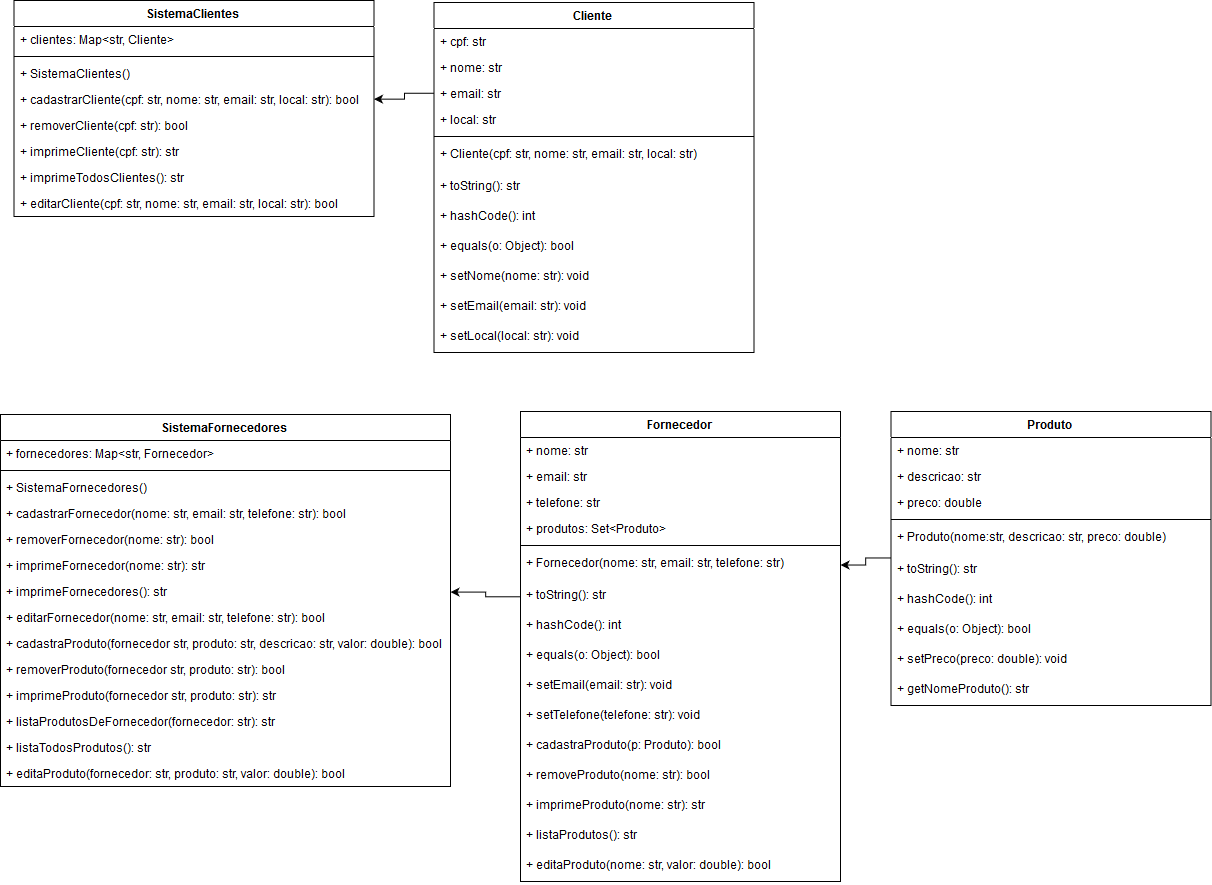
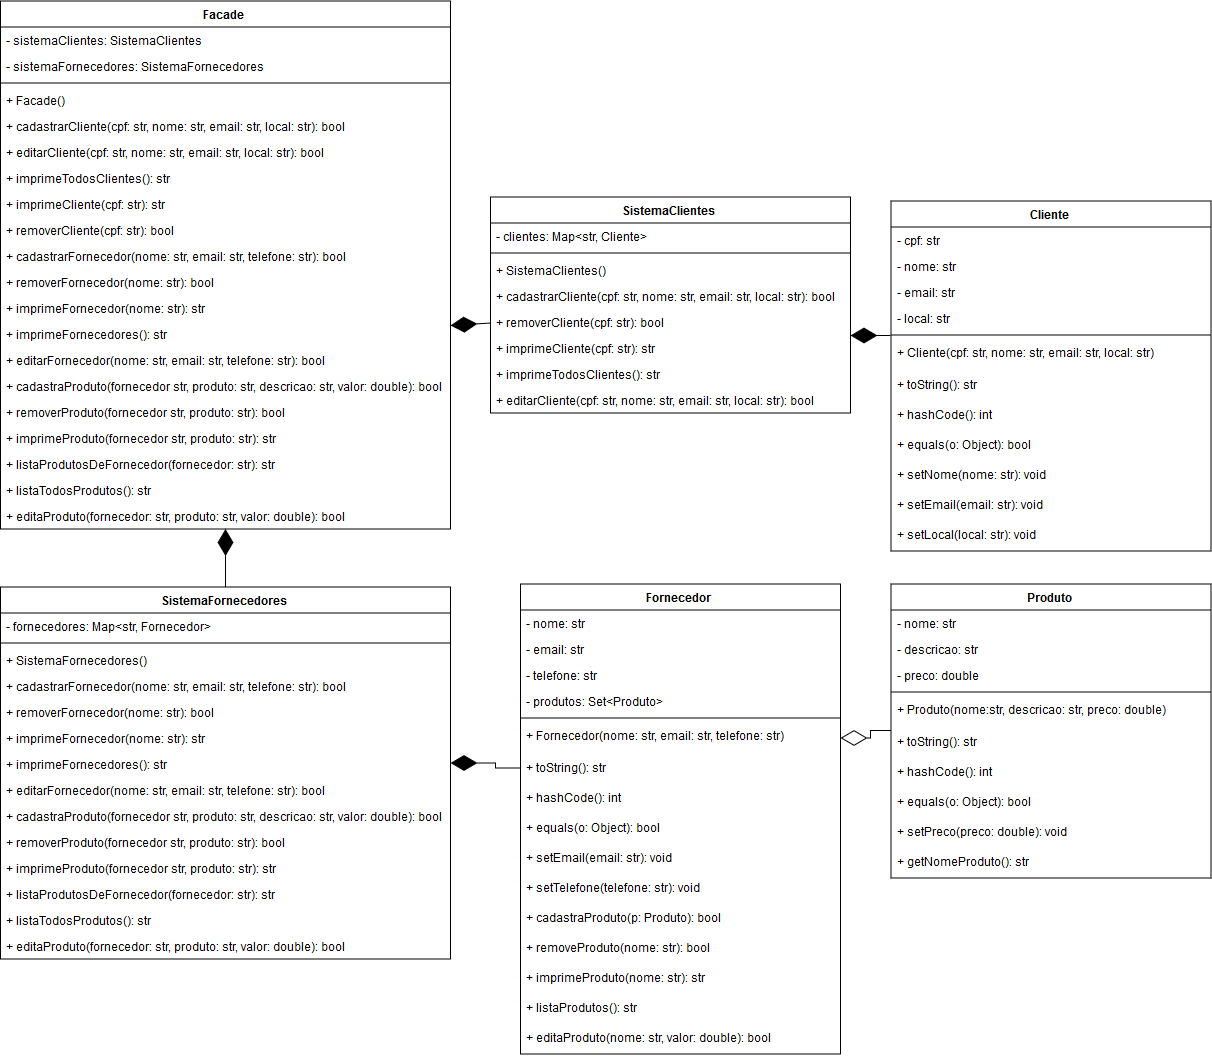
Adicionando o Facade e update no diagrama de classes

diff --git a/P5/Lab5JoaoFelipe/src/lab5/Facade.java b/P5/Lab5JoaoFelipe/src/lab5/Facade.java
@@ -2,4 +2,75 @@ package lab5;
 
 public class Facade {
 	
+	private SistemaClientes sistemaClientes;
+	private SistemaFornecedores sistemaFornecedores;
+	
+	public Facade() {
+		this.sistemaClientes = new SistemaClientes();
+		this.sistemaFornecedores = new SistemaFornecedores();
+	}
+	
+	public boolean cadastrarCliente(String cpf, String nome, String email, String local) {
+		return sistemaClientes.cadastrarCliente(cpf, nome, email, local);
+	}
+	
+	public String imprimeCliente(String cpf) {
+		return sistemaClientes.imprimeCliente(cpf);
+	}
+	
+	public String imprimeTodosClientes() {
+		return sistemaClientes.imprimeTodosClientes();
+	}
+	
+	public boolean removerCliente(String cpf) {
+		return sistemaClientes.removerCliente(cpf);
+	}
+	
+	public boolean editarCliente(String cpf, String nome, String email, String local) {
+		return sistemaClientes.editarCliente(cpf, nome, email, local);
+	}
+	
+	public boolean cadastrarFornecedor(String nome, String email, String telefone) {
+		return sistemaFornecedores.cadastrarFornecedor(nome, email, telefone);
+	}
+	
+	public String imprimeFornecedor(String nome) {
+		return sistemaFornecedores.imprimeFornecedor(nome);
+	}
+	
+	public String imprimeFornecedores() {
+		return sistemaFornecedores.imprimeFornecedores();
+	}
+	
+	public boolean removerFornecedor(String nome) {
+		return sistemaFornecedores.removerFornecedor(nome);
+	}
+	
+	public boolean editarFornecedor(String nome, String email, String telefone) {
+		return sistemaFornecedores.editarFornecedor(nome, email, telefone);
+	}
+	
+	public boolean cadastraProduto(String fornecedor, String produto, String descricao, double valor) {
+		return sistemaFornecedores.cadastraProduto(fornecedor, produto, descricao, valor);
+	}
+	
+	public boolean removerProduto(String fornecedor, String produto) {
+		return sistemaFornecedores.removerProduto(fornecedor, produto);
+	}
+	
+	public String imprimeProduto(String fornecedor, String produto) {
+		return sistemaFornecedores.imprimeProduto(fornecedor, produto);
+	}
+	
+	public String listaProdutosDeFornecedor(String fornecedor) {
+		return sistemaFornecedores.listaProdutosDeFornecedor(fornecedor);
+	}
+	
+	public String listaTodosProdutos() {
+		return sistemaFornecedores.listaTodosProdutos();
+	}
+	
+	public boolean editaProduto(String fornecedor, String produto, double valor) {
+		return sistemaFornecedores.editaProduto(fornecedor, produto, valor);
+	}
 }
